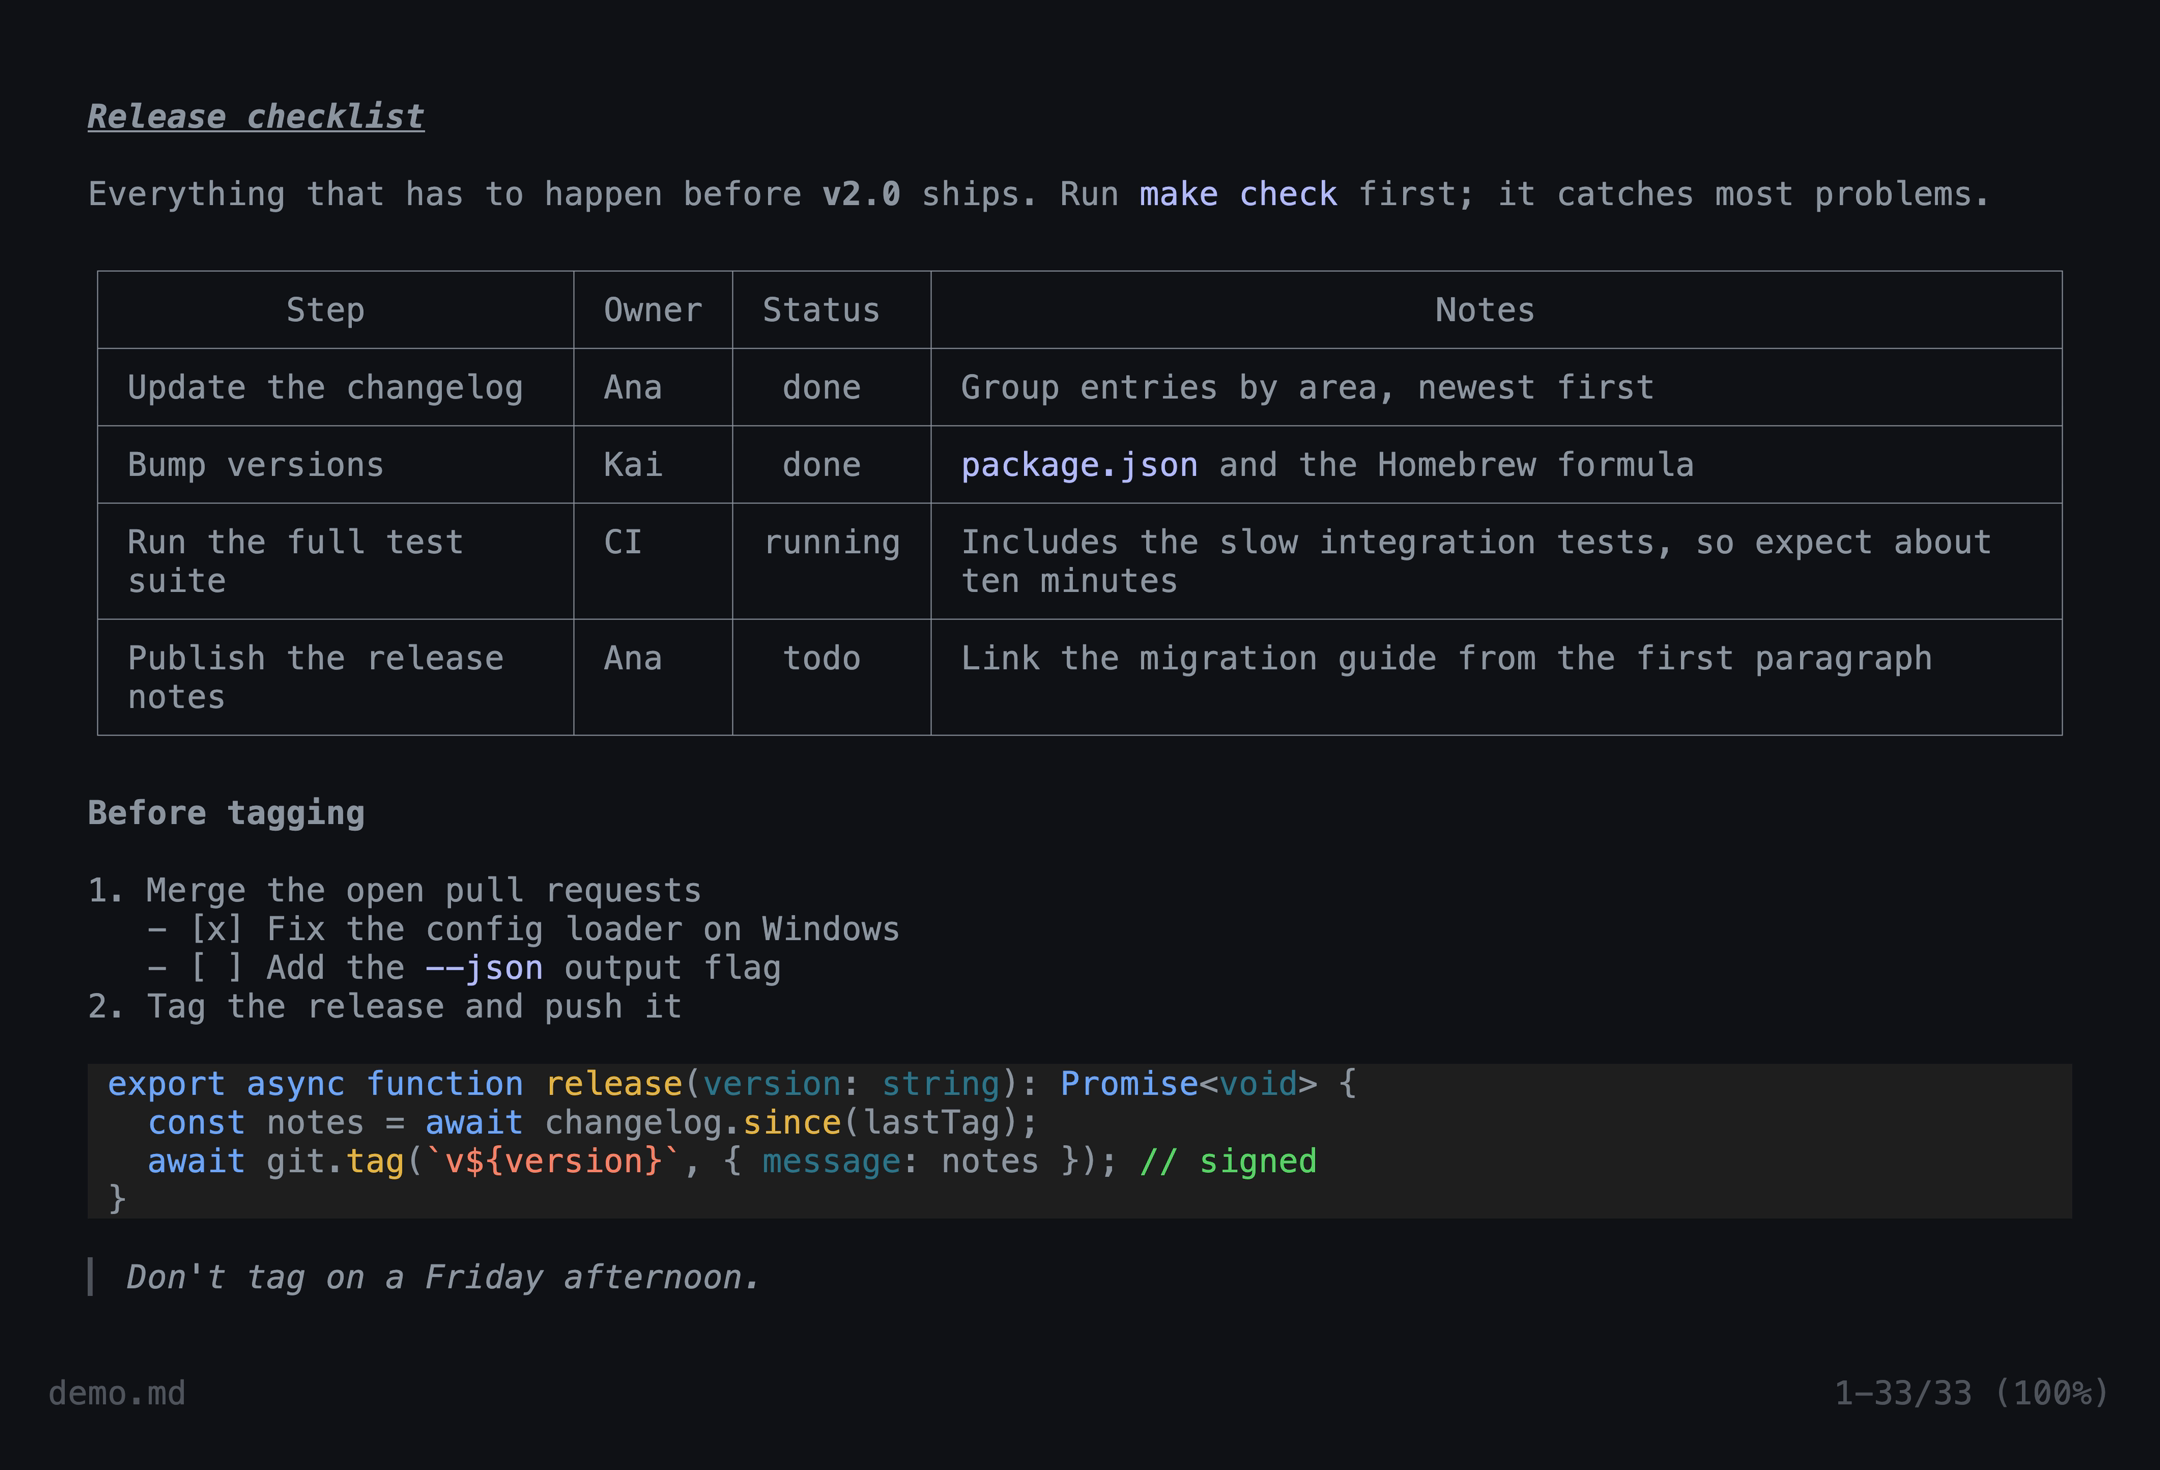
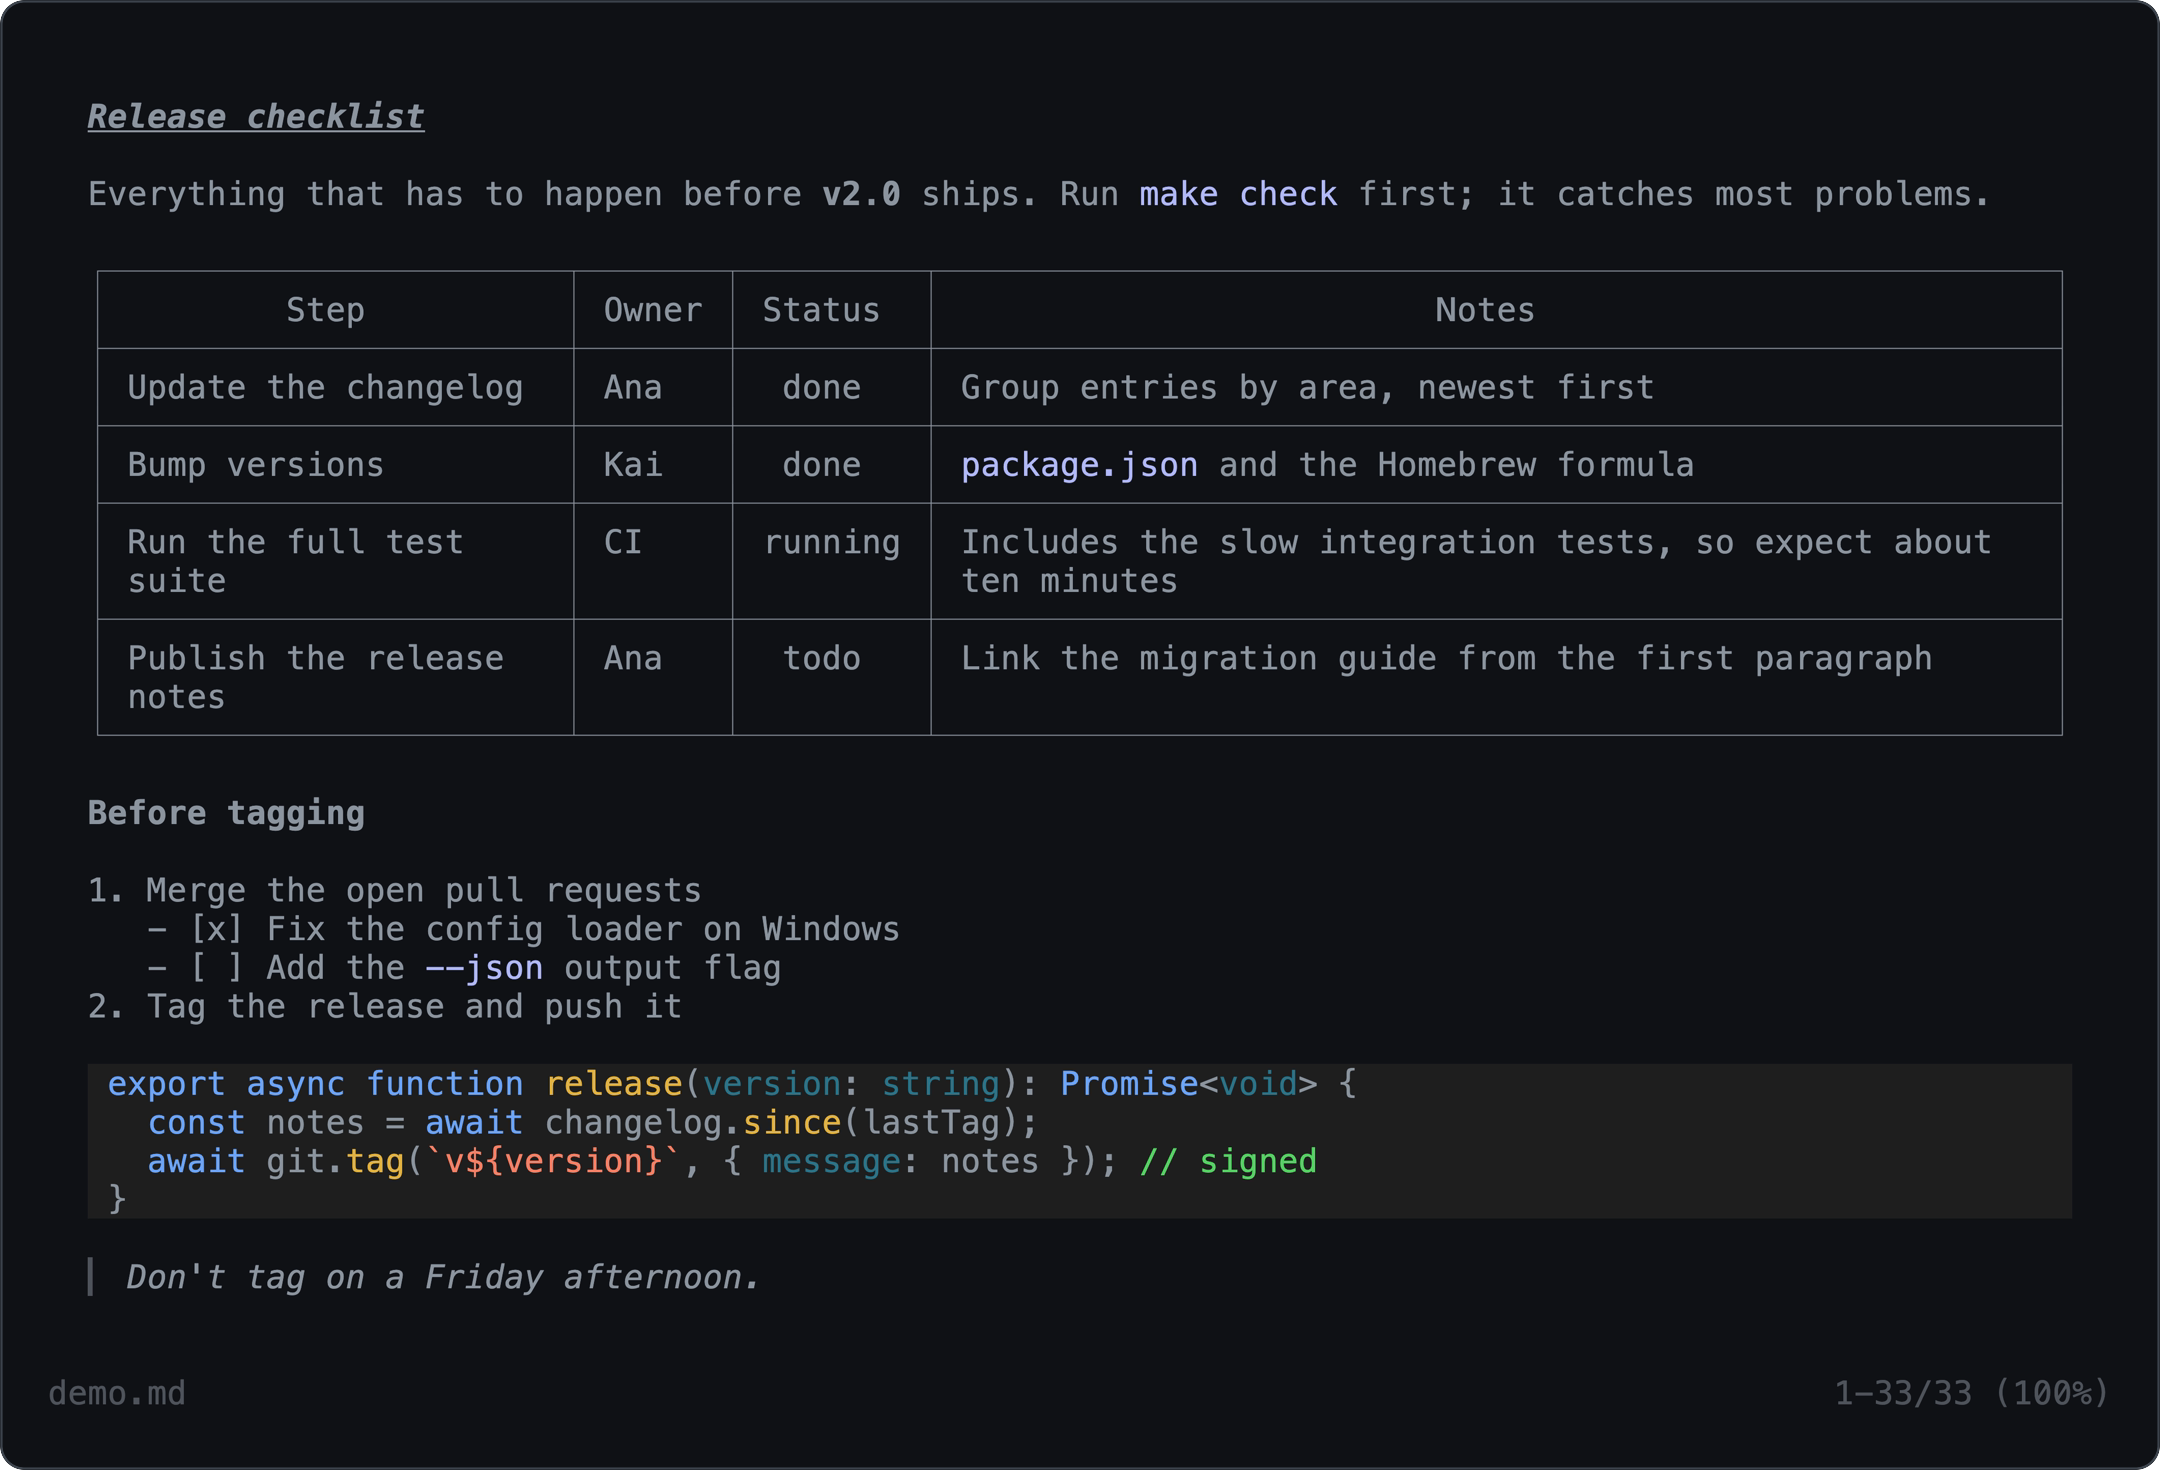
Round the screenshot's corners and add an outline
docs/screenshot.sh renders the VHS tape and then uses ImageMagick to cut transparent rounded corners and draw a #3d444d outline. The README and AGENTS.md now point at the script.

Changed region(s): [[0.9616, 0.0, 1.0, 1.0], [0.0, 0.9796, 0.031, 1.0], [0.0, 0.0, 0.031, 0.0306]]

diff --git a/AGENTS.md b/AGENTS.md
@@ -12,7 +12,7 @@ bun test test/table.test.mjs                          # one file
 bun test -t "header: value"                           # tests whose name matches (regex)
 bun bin/md.mjs fixtures/03-lists.md                   # viewer (always, in a terminal)
 bun bin/md.mjs -p -w 60 fixtures/02-tables-wrapping.md    # print at a fixed width
-vhs docs/screenshot.tape                              # regenerate docs/screenshot.png for the README
+docs/screenshot.sh                                    # regenerate docs/screenshot.png (VHS + ImageMagick)
 ```
 
 After `bun link`, `md` in `~/.bun/bin` points at the checkout, so edits take effect immediately. To exercise the viewer without a real terminal, run it under `script -q log bash -c "stty cols 80 rows 20; bun bin/md.mjs FILE"` and pipe keys in.

diff --git a/README.md b/README.md
@@ -170,7 +170,7 @@ If you're after something more established, [glow](https://github.com/charmbrace
 bun test                       # unit and snapshot tests
 bun test --update-snapshots    # accept intended changes to the rendered output
 bun bin/md.mjs fixtures/05-code.md
-vhs docs/screenshot.tape       # regenerate the screenshot above (needs VHS)
+docs/screenshot.sh             # regenerate the screenshot above (needs VHS and ImageMagick)
 ```
 
 Every file in `fixtures/` is rendered and compared with a saved snapshot, so any change to how something looks fails a test until the snapshot is updated. Review the snapshot diff before committing. [`AGENTS.md`](AGENTS.md) explains how the rendering pipeline fits together.
